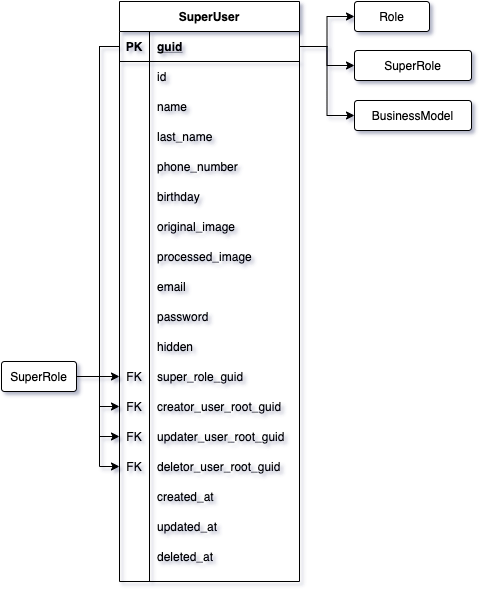
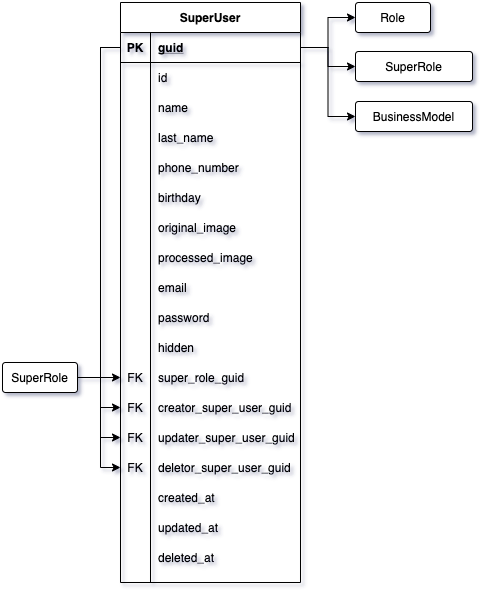
update database diagram

diff --git a/basedata/entities/User.md b/basedata/entities/User.md
@@ -1,22 +1,45 @@
-# Usuario
+# Super Usuario
 
-Entidad utilizada para clasificar/agrupar .
-
-### **Tabla en base de datos.**
-
-
-Diagrama de la base de datos [(Link aquí)](https://app.diagrams.net/#G1TR1Q9nC36PcOae7jeaJIxgDLTjUUpkfL).
-
-### **Descripción de campos.**
-
-El detalle de los campos de la tabla en la base de datos son:
+Entidad utilizada para gestionar super usuarios en el sistema. Éstos son usuarios principales capaces de gestionar empresas, sucursales etc. El alcance es a nivel empresa 4UREST.
 
 ---
 
-### **3.  Modelo en base de datos.**
+## 1.   Descripción de campos.
+
+La descripción de los campos de las entidades se presenta a continuación.
+
+| Tipo | Campo | Descripción |
+|-|-|-|
+| guid | guid | Es el identificador único y llave primaria de tipo guid. |
+| int | id | Registro único y auto incrementable de la tabla |
+| string | name | Representa el nombre del usuario. |
+| string | last_name | Representa los apellidos del usuario. |
+| string | phone_number | Representa el número de teléfono del usuario. |
+| datetime | birthday | Representa la fecha de nacimiento del usuario. |
+| string | original_image | Ruta de la imagen original del usuario. |
+| string | processed_image | Ruta de la imagen procesada para el sistema que representa al usuario. |
+| string | email | Representa el correo electrónico del usuario. |
+| string | password | Representa la clave de acceso al sistema del usuario. |
+| int | pos_pin | Pin de acceso a la plataforma punto de venta. |
+| byte | hidden | Representa la visibilidad en el sistema: 0—visible, 1—sin acceso al sistema. Por defecto es 0. |
+| guid | company_guid | Campo que registra el guid de la empresa a la que pertenece el usuario. |
+| guid | subsidiary_guid | Campo que registra el guid de la sucursal a la que es asignado el usuario. |
+| guid | role_guid | Campo que registra el guid del rol asignado al usuario. |
+| guid | creator_user_guid | Campo que registra el guid del super usuario que crea al nuevo usuario. |
+| guid | updater_user_guid | Campo que registra el guid del super usuario que actualiza algún dato del usuario. |
+| guid | deletor_user_guid | Campo que registra el guid del super usuario que elimina el usuario. |
+| datetime | created_at | Campo que registra la hora y fecha de la creación del usuario. |
+| datetime | updated_at | Campo que registra la hora y fecha de la actualización de algún dato del usuario. |
+| datetime | deleted_at | Campo que registra la hora y fecha de la eliminación del usuario. |
+
+--- 
+
+## 2.  Modelo en base de datos.
 
 El modelo de la entidad en la base de datos con sus llaves foráneas se presenta de la siguiente manera.
 
-![User table](/images/UserTable.png)
+![Company table](/images/UserTable.png)
+
+Diagrama de la base de datos [(Link aquí)](https://app.diagrams.net/#G12bfdBfGq1QhoH-HbKd0D5KDiGZxJKMYT).
 
 📝 [Editar Documento](https://github.com/4uRest/documentation)

diff --git a/basedata/entities/SuperUser.md b/basedata/entities/SuperUser.md
@@ -22,9 +22,9 @@ La descripción de los campos de las entidades se presenta a continuación.
 | string | password | Representa la clave de acceso al sistema del super usuario. |
 | byte | hidden | Representa la visibilidad en el sistema: 0—visible, 1—sin acceso al sistema. Por defecto es 0. |
 | guid | super_role_guid | Campo que registra el guid del rol asignado al super usuario. |
-| guid | creator_user_root_guid | Campo que registra el guid del super usuario que crea al nuevo super usuario. |
-| guid | updater_user_root_guid | Campo que registra el guid del super usuario que actualiza algún dato del super usuario. |
-| guid | deletor_user_root_guid | Campo que registra el guid del super usuario que elimina el super usuario. |
+| guid | creator_super_user_guid | Campo que registra el guid del super usuario que crea al nuevo super usuario. |
+| guid | updater_super_user_guid | Campo que registra el guid del super usuario que actualiza algún dato del super usuario. |
+| guid | deletor_super_user_guid | Campo que registra el guid del super usuario que elimina el super usuario. |
 | datetime | created_at | Campo que registra la hora y fecha de la creación del super usuario. |
 | datetime | updated_at | Campo que registra la hora y fecha de la actualización de algún dato del super usuario. |
 | datetime | deleted_at | Campo que registra la hora y fecha de la eliminación del super usuario. |
